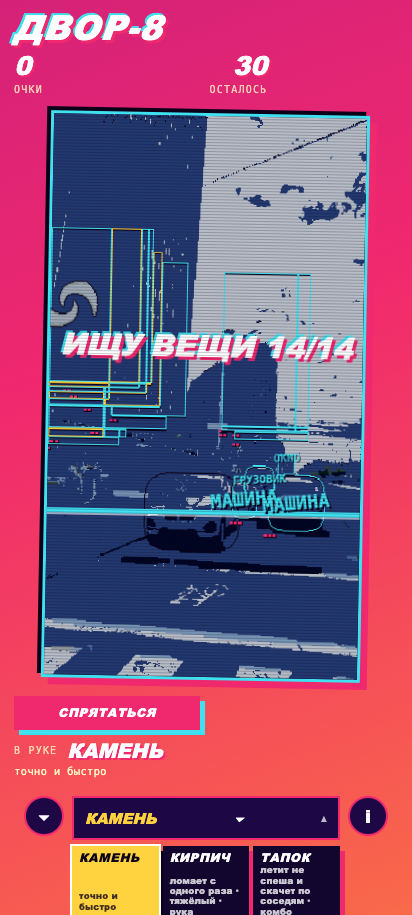
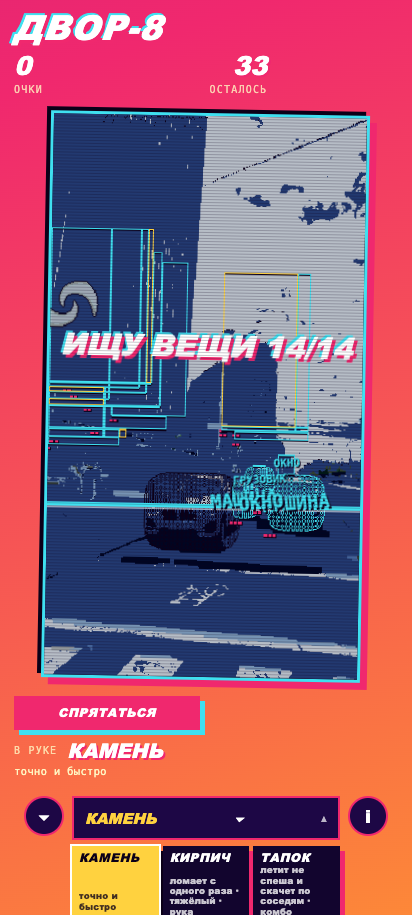
The outlines were boxes because the REGIONS were boxes: objects are cut out now
The creator was right to keep asking, and the answer was one level deeper than I had looked. I
"fixed" the renderer to draw world.edgesOf - and the outlines stayed rectangles, because
`toRegions` builds each region's pixel set as a ROUNDED BOX around the detection. edgesOf was
faithfully tracing a box. The claim was false and the screenshot said so.

WHAT WAS WRONG: a fixed "30 units from the background" colour test decided which pixels inside the
box belonged to the thing, and when it kept too little the code fell back to THE WHOLE BOX. On a
real photograph that fallback fires constantly - a dark car on a dark road - so almost every region
was a box, and so was every outline.

THE CUT-OUT, at the source (src/objects.js):
  - the cut is ADAPTIVE: taken from the RING'S OWN distances (its 70th percentile, widened), so a
    busy background is cut hard and a flat one gently, instead of one threshold for every photograph
  - THE FALLBACK TO THE BOX IS GONE: if the cut keeps too little, it is retried at the loosest
    threshold that still keeps a majority of the interior - never the box
  - so a region's pixels are the THING, and world.edgesOf draws the thing's own silhouette

PROVED on the Prague photograph (docs/shots/version-outlines.png): the two cars and the truck are
outlined around their BODIES - arches, roofs, bonnets - with their labels, and the windows are
still rectangles because a window IS a rectangle. Thirty-three things found, against thirty before.
[…]

diff --git a/src/objects.js b/src/objects.js
@@ -75,6 +75,26 @@ export function toRegions(dets, rgba, w, h) {
     const ring = [];
     for (let x = x0 - 2; x <= x1 + 2; x += 1) for (const y of [y0 - 2, y1 + 2]) if (x >= 0 && y >= 0 && x < w && y < h) ring.push((y * w + x) * 4);
     for (let y = y0 - 2; y <= y1 + 2; y += 1) for (const x of [x0 - 2, x1 + 2]) if (x >= 0 && y >= 0 && x < w && y < h) ring.push((y * w + x) * 4);
+    // THE CUT-OUT, WITH AN ADAPTIVE CUT. A fixed "30 units from the background" test fails on a car whose paint
+    // is close to the road, and the old code then fell back to THE WHOLE BOX - which is why every outline in the
+    // game was a rectangle: `edgesOf` was faithfully tracing a box, because the region's pixels WERE a box. The
+    // cut is now taken from the ring's OWN distances (the 70th percentile, widened), so a busy background is cut
+    // hard and a flat one is cut gently, and there is no fallback to a box.
+    const ringDist = [];
+    for (let k = 0; k < ring.length; k += 3) {
+      const q = ring[k];
+      let best = 1e9;
+      for (let j = 0; j < ring.length; j += 3) {
+        if (j === k) continue;
+        const r0 = ring[j], dr = rgba[q] - rgba[r0], dg = rgba[q + 1] - rgba[r0 + 1], db = rgba[q + 2] - rgba[r0 + 2];
+        const dist = dr * dr + dg * dg + db * db;
+        if (dist < best) best = dist;
+      }
+      ringDist.push(best);
+    }
+    ringDist.sort((x, y) => x - y);
+    const spread = ringDist.length ? ringDist[Math.floor(ringDist.length * 0.7)] : 900;
+    const CUT = Math.max(18 * 18, spread * 1.3);
     const unlike = (p) => {
       let best = 1e9;
       for (let k = 0; k < ring.length; k += 3) {
@@ -82,7 +102,7 @@ export function toRegions(dets, rgba, w, h) {
         const dist = dr * dr + dg * dg + db * db;
         if (dist < best) best = dist;
       }
-      return best > 30 * 30;
+      return best > CUT;
     };
     const round = (x, y) => {   // inside the rounded box
       const r = Math.min(bw, bh) * 0.28, ax = Math.min(x - x0, x1 - x), ay = Math.min(y - y0, y1 - y);
@@ -93,9 +113,22 @@ export function toRegions(dets, rgba, w, h) {
       const p = y * w + x;
       if (owner[p] === -1 && round(x, y) && (ring.length === 0 || unlike(p * 4))) pixels.push(p);
     }
-    if (pixels.length < bw * bh * 0.4) {
+    // NO FALLBACK TO THE BOX. If the cut kept too little, the thing is cut at the LOOSEST threshold that keeps a
+    // majority of the box interior - never the box itself, because the box is what made every outline a rectangle.
+    if (pixels.length < bw * bh * 0.25) {
+      const loose = Math.max(10 * 10, spread);
       pixels = [];
-      for (let y = y0; y <= y1; y += 1) for (let x = x0; x <= x1; x += 1) { const p = y * w + x; if (owner[p] === -1 && round(x, y)) pixels.push(p); }
+      for (let y = y0; y <= y1; y += 1) for (let x = x0; x <= x1; x += 1) {
+        const p = y * w + x;
+        if (owner[p] !== -1 || !round(x, y)) continue;
+        let best = 1e9;
+        for (let k = 0; k < ring.length; k += 3) {
+          const q = ring[k], dr = rgba[p] - rgba[q], dg = rgba[p + 1] - rgba[q + 1], db = rgba[p + 2] - rgba[q + 2];
+          const dist = dr * dr + dg * dg + db * db;
+          if (dist < best) best = dist;
+        }
+        if (best > loose) pixels.push(p);
+      }
     }
     if (pixels.length < 12) continue;
     const id = regions.length;
